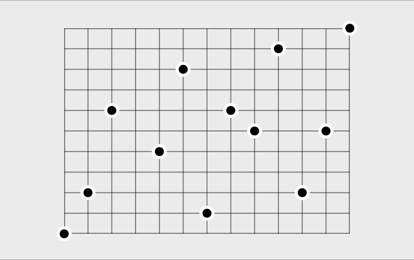
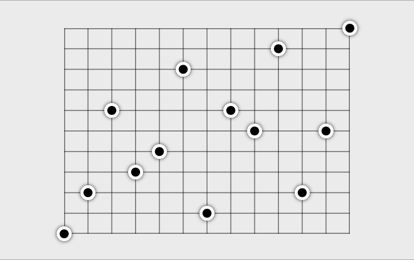
updated shadows

diff --git a/Sources/Graffeine-Demo/Main/PieSlices/PieSlicesConfig.swift b/Sources/Graffeine-Demo/Main/PieSlices/PieSlicesConfig.swift
@@ -30,6 +30,10 @@ class PieSlicesConfig: GraffeineViewConfig {
                     $0.borderColors = [.black]
                     $0.borderThickness = 2
                     $0.shouldUseDataValueMax = true
+                    $0.shadowColor = UIColor.black.cgColor
+                    $0.shadowOpacity = 0.7
+                    $0.shadowRadius = 4.0
+                    $0.shadowOffset = CGSize(width: 0, height: 2)
                 }),
 
             GraffeineRadialLabelLayer(id: ID.pieLabels)
@@ -40,6 +44,10 @@ class PieSlicesConfig: GraffeineViewConfig {
                     $0.colors = [UIColor(white: 0.99, alpha: 0.88)]
                     $0.shouldUseDataValueMax = true
                     $0.fontSize = 12
+                    $0.unitShadow.color = .black
+                    $0.unitShadow.opacity = 0.8
+                    $0.unitShadow.radius = 2.0
+                    $0.unitShadow.offset = CGSize(width: 0, height: 0)
                 })
         ]
     }

diff --git a/Sources/Graffeine-Demo/Main/VerticalDescendingBars/VerticalDescendingBarsConfig.swift b/Sources/Graffeine-Demo/Main/VerticalDescendingBars/VerticalDescendingBarsConfig.swift
@@ -52,10 +52,10 @@ class VerticalDescendingBarsConfig: GraffeineViewConfig {
                     $0.unitMargin = unitMargin
                     $0.colors = [.purple]
                     $0.roundedEnds = .hi(6)
-                    $0.barShadowColor = .black
-                    $0.barShadowOpacity = 0.7
-                    $0.barShadowRadius = 2.0
-                    $0.barShadowOffset = CGSize(width: 0, height: 2)
+                    $0.unitShadow.color = .black
+                    $0.unitShadow.opacity = 0.7
+                    $0.unitShadow.radius = 2.0
+                    $0.unitShadow.offset = CGSize(width: 0, height: 2)
                 })
         ]
     }

diff --git a/Sources/Graffeine-Demo/Main/Scatterplot/ScatterplotConfig.swift b/Sources/Graffeine-Demo/Main/Scatterplot/ScatterplotConfig.swift
@@ -43,6 +43,10 @@ class ScatterplotConfig: GraffeineViewConfig {
                     $0.plotDiameter = 12.0
                     $0.plotBorderThickness = 3.0
                     $0.plotBorderColors = [.white]
+                    $0.unitShadow.color = .black
+                    $0.unitShadow.opacity = 0.8
+                    $0.unitShadow.radius = 2.0
+                    $0.unitShadow.offset = CGSize(width: 0, height: 0)
                 })
         ]
     }
